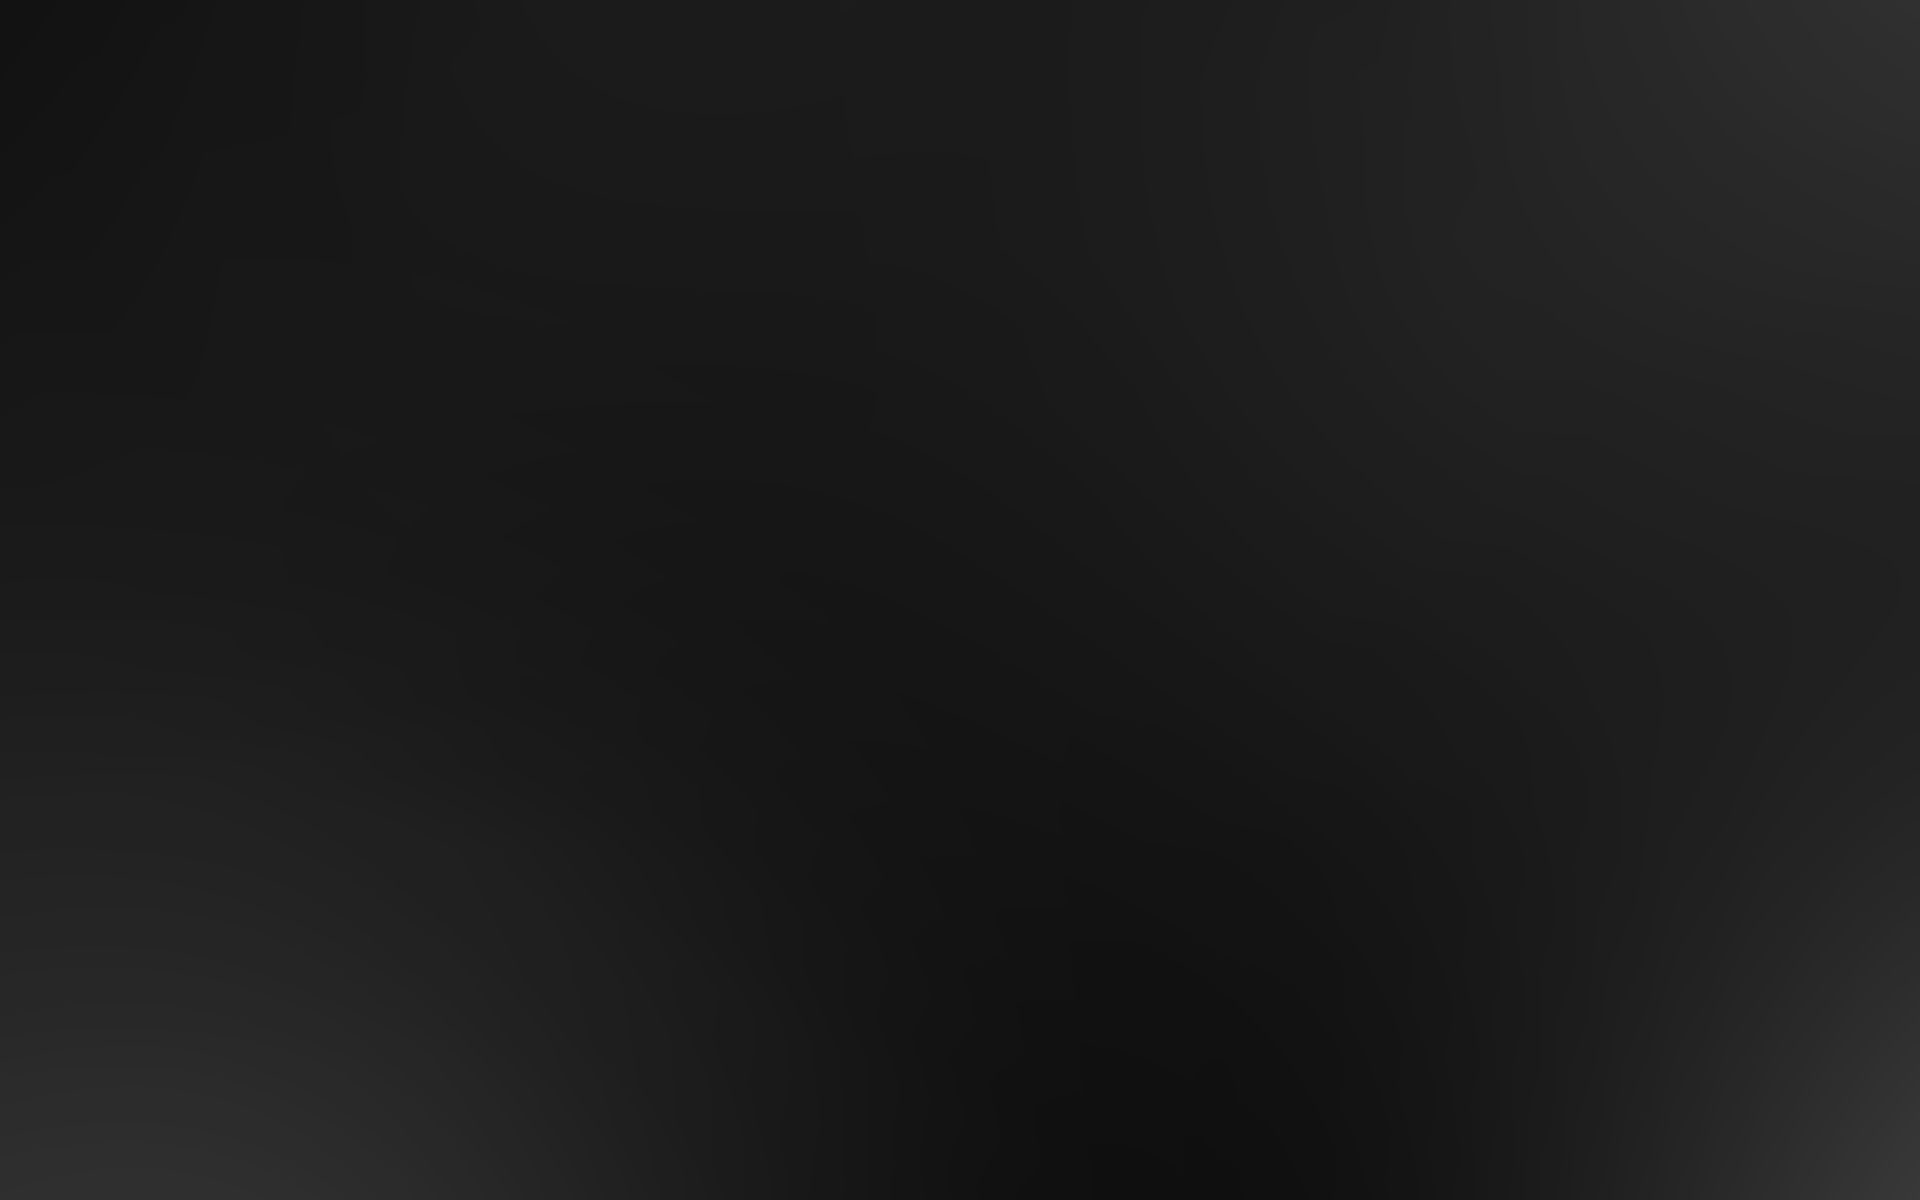
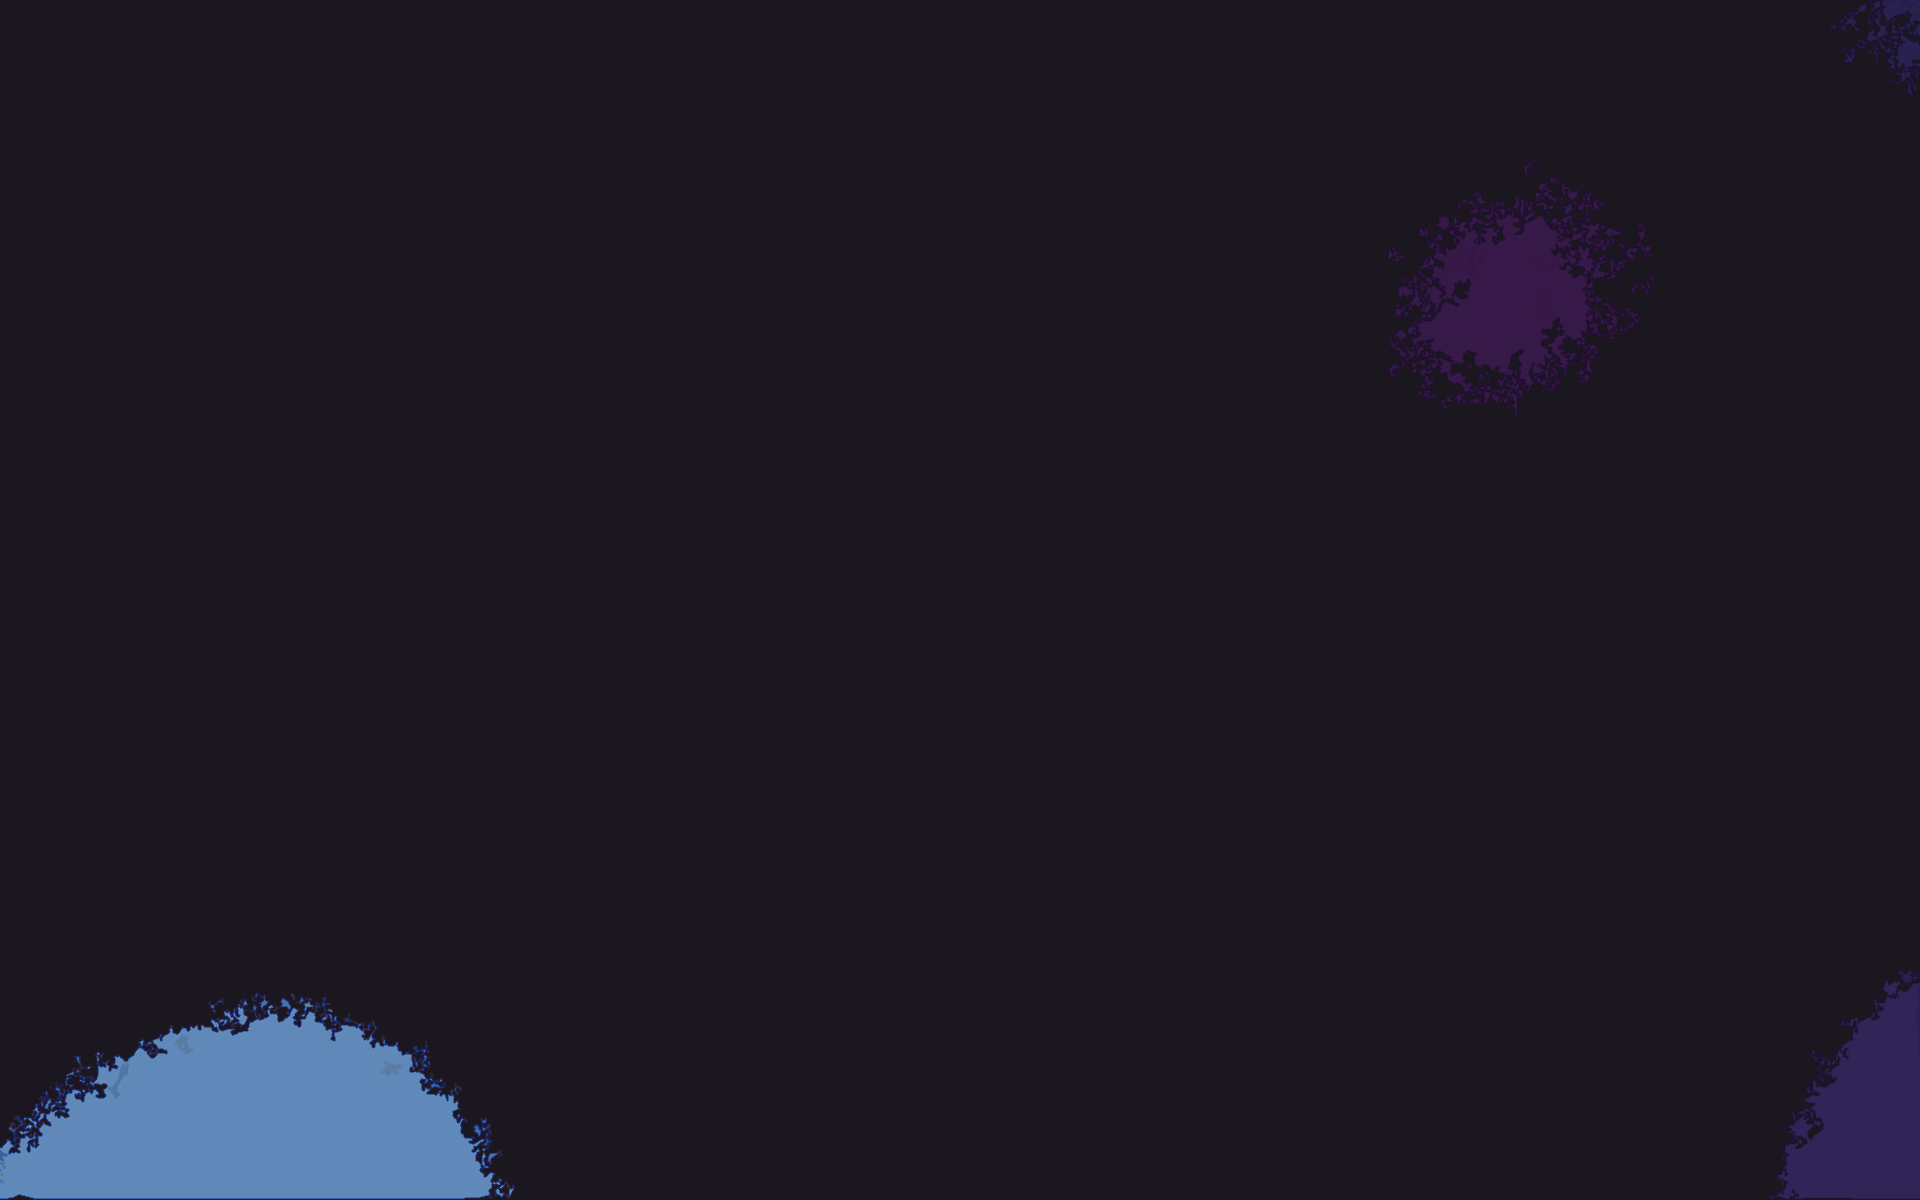
Better dropdowns, startpage background and colors.

diff --git a/client/views/channel/channel.js b/client/views/channel/channel.js
@@ -51,7 +51,7 @@ Channel = BlazeComponent.extendComponent({
     // Prevents memory leaks!
     self.messageObserveHandle && self.messageObserveHandle.stop();
     // Stop listening to scroll events
-    $(window).off(self.calculateNearBottom);
+    // $(window).off(self.calculateNearBottom);
   },
   calculateNearBottom: function () {
     var self = this;
@@ -182,11 +182,23 @@ Channel = BlazeComponent.extendComponent({
         },
 
         'click .channel-title': function(event) {
+          var self = this;
           event.preventDefault();
 
-          this.$(".channel-dropdown").toggleClass("hidden");
+          self.$(".channel-dropdown").toggleClass("hidden");
+          self.$(".channel-title").toggleClass("visible");
           if ($(".channel-dropdown").not('.hidden')) {
-            $('.channel-dropdown-topic-input').focus();
+            self.$('.channel-dropdown-topic-input').focus();
+            self.$(".channel-dropdown").css({
+              left: $(".channel-title").outerWidth() + 200 - 30 - $(".channel-title span").outerWidth()
+            });
+            $(window).bind('mouseup.channel-dropdown', function(e) {
+              if (!self.$(e.target).closest('#spacetalk-header')[0] && !self.$(e.target).closest('.channel-dropdown')[0]) {
+                self.$(".channel-dropdown").addClass("hidden");
+                self.$(".channel-title").removeClass("visible");
+              }
+              $(window).unbind('mouseup.channel-dropdown');
+            });
           }
         },
 
@@ -197,6 +209,7 @@ Channel = BlazeComponent.extendComponent({
             Meteor.call('channels.updateTopic', currentChannelId(), content);
             // Hide the dropdown.
             this.$(".channel-dropdown").toggleClass("hidden");
+            this.$(".channel-title").toggleClass("visible");
           }
         }
       }];

diff --git a/client/css/_channel.scss b/client/css/_channel.scss
@@ -25,11 +25,21 @@
       color: $primary;
       font-size: 24px;
       font-weight: 900;
+      -webkit-touch-callout: none;
+      -webkit-user-select: none;
+      -khtml-user-select: none;
+      -moz-user-select: none;
+      -ms-user-select: none;
+      user-select: none;
 
       i {
-        font-size: 15px;
+        font-size: 18px;
         color: #9e9ea6;
         font-weight: 500;
+      }
+
+      &.visible i {
+        color: $primary;
       }
 
       .topic {
@@ -151,12 +161,13 @@
     background-color: $light-background;
     color: $secondary;
     position: absolute;
-    left: 230px;
+    left: 300px;
+    margin-left: -100px;
     width: 200px;
     top: 50px;
     z-index: 2;
     border-radius: .375rem;
-    border: solid 2px #ccc;
+    border: solid 2px darken($primary, 10%);
     background: #f3f3f3;
     text-shadow: none;
     font-size: 0.7rem;
@@ -166,10 +177,23 @@
       display: block;
       position: absolute;
       top: -8px;
-      left: 126px;
+      left: 50%;
+      margin-left: -8px;
       border-left: solid 8px transparent;
       border-right: solid 8px transparent;
-      border-bottom: solid 8px #ccc;
+      border-bottom: solid 8px darken($primary, 10%);
+    }
+
+    &:after {
+      content: '';
+      display: block;
+      position: absolute;
+      top: -6px;
+      left: 50%;
+      margin-left: -6px;
+      border-left: solid 6px transparent;
+      border-right: solid 6px transparent;
+      border-bottom: solid 6px #f3f3f3;
     }
 
     .header-item {

diff --git a/client/css/_left-sidebar.scss b/client/css/_left-sidebar.scss
@@ -8,7 +8,7 @@
   box-sizing: border-box;
   z-index: 2;
   &, a {
-    color: lighten($primary, 30%);
+    color: lighten($primary, 50%);
     text-decoration: none;
     text-shadow: 1px 1px darken($primary, 5%);
   }
@@ -122,6 +122,9 @@
       outline: none;
       font-size: 20px;
       margin-top: 6px;
+      &.visible {
+        color: white;
+      }
     }
 
     &-dropdown {
@@ -138,11 +141,11 @@
       background: #f3f3f3;
       z-index: 2;
       border-radius: .375rem;
-      border: solid 2px #ccc;
+      border: solid 2px darken($primary, 10%);
       text-shadow: none;
       font-size: 0.8rem;
 
-      &:after {
+      &:before {
         content: '';
         display: block;
         position: absolute;
@@ -150,7 +153,18 @@
         left: 46px;
         border-left: solid 8px transparent;
         border-right: solid 8px transparent;
-        border-top: solid 8px #ccc;
+        border-top: solid 8px darken($primary, 10%);
+      }
+
+      &:after {
+        content: '';
+        display: block;
+        position: absolute;
+        bottom: -5px;
+        left: 49px;
+        border-left: solid 5px transparent;
+        border-right: solid 5px transparent;
+        border-top: solid 5px #f3f3f3;
       }
 
       a {

diff --git a/client/views/left-sidebar/left-sidebar.js b/client/views/left-sidebar/left-sidebar.js
@@ -22,9 +22,19 @@ LeftSidebar = BlazeComponent.extendComponent({
         },
 
         'click .left-sidebar-user-show-dropdown': function (event) {
+          var self = this;
           event.preventDefault();
 
-          this.$(".left-sidebar-user-dropdown").toggleClass("hidden");
+          self.$(".left-sidebar-user-dropdown").toggleClass("hidden");
+          self.$(".left-sidebar-user-show-dropdown").toggleClass("visible");
+
+          $(window).bind('mouseup.left-sidebar-user-dropdown', function(e) {
+            if (!self.$(e.target).closest('.left-sidebar-user')[0]) {
+              self.$(".left-sidebar-user-dropdown").addClass("hidden");
+              self.$(".left-sidebar-user-show-dropdown").removeClass("visible");
+            }
+            $(window).unbind('mouseup.left-sidebar-user-dropdown');
+          });
         }
       }
     ];

diff --git a/client/views/home/home.html b/client/views/home/home.html
@@ -7,7 +7,7 @@
     <!--Once you log in, you will automatically be redirected to the backend interface.-->
     {{#if currentUser}}
     <div class="breif">
-      <p><strong>Welcome to SpaceTalk.</strong> SpaceTalk is made for communication in teams, and we've created one for you to get you started.</p>
+      <p><strong>Welcome to SpaceTalk.</strong> SpaceTalk is made for team communication, and we've created one for you to get you started.</p>
     </div>
     <div class="content-inner-form">
       {{#if currentUser}}
@@ -34,5 +34,5 @@
 </template>
 
 <template name="teamLink">
-  <li><a href="{{pathFor 'teamHome' team=slug }}" target="_blank">{{name}}</a></li>    
+  <li><a href="{{pathFor 'teamHome' team=slug }}">{{name}}</a></li>
 </template>

diff --git a/client/css/_layouts.scss b/client/css/_layouts.scss
@@ -10,9 +10,11 @@
       min-height: 100%;
       font-weight: 400;
       margin: 0;
-      background: url(bg.jpg) #000;
-      background-size: cover;
-      background-attachment: fixed;
+      // background: url(bg.jpg) #000;
+      // background-size: cover;
+      // background-attachment: fixed;
+      // background-position: center center;
+      background: $primary;
       color: #aaa;
       font-family: Open Sans, sans-serif;
       font-size: 16px;

diff --git a/client/css/_channel-info.scss b/client/css/_channel-info.scss
@@ -46,12 +46,6 @@
     color: lighten(desaturate($primary, 30%), 60%);
     transition: color .2s ease-in-out;
     cursor: pointer;
-    -webkit-touch-callout: none;
-    -webkit-user-select: none;
-    -khtml-user-select: none;
-    -moz-user-select: none;
-    -ms-user-select: none;
-    user-select: none;
     &:hover {
       color: $primary;
     }

diff --git a/client/css/_vars.scss b/client/css/_vars.scss
@@ -6,9 +6,9 @@ $light-text: white;
 $dark-text: black;
 $light-background: white;
 $dark-background: black;
-$primary: #41414e;
+$primary: #1b171f;
 $secondary: #3D3C40;
-$accent: #538fc5;
+$accent: #6089b9;
 $online: #38978D;
 $offline: #ab9ba9;
 $idle: lighten($primary, 15%);

diff --git a/client/views/home/home.js b/client/views/home/home.js
@@ -8,6 +8,6 @@ Template.teamLink.onRendered(function() {
     this.$('li').click(function(e) {
       e.preventDefault();
       var href = $('a', this).attr('href');
-      window.open(href, '_blank');
+      FlowRouter.go(href);
     });
   });
